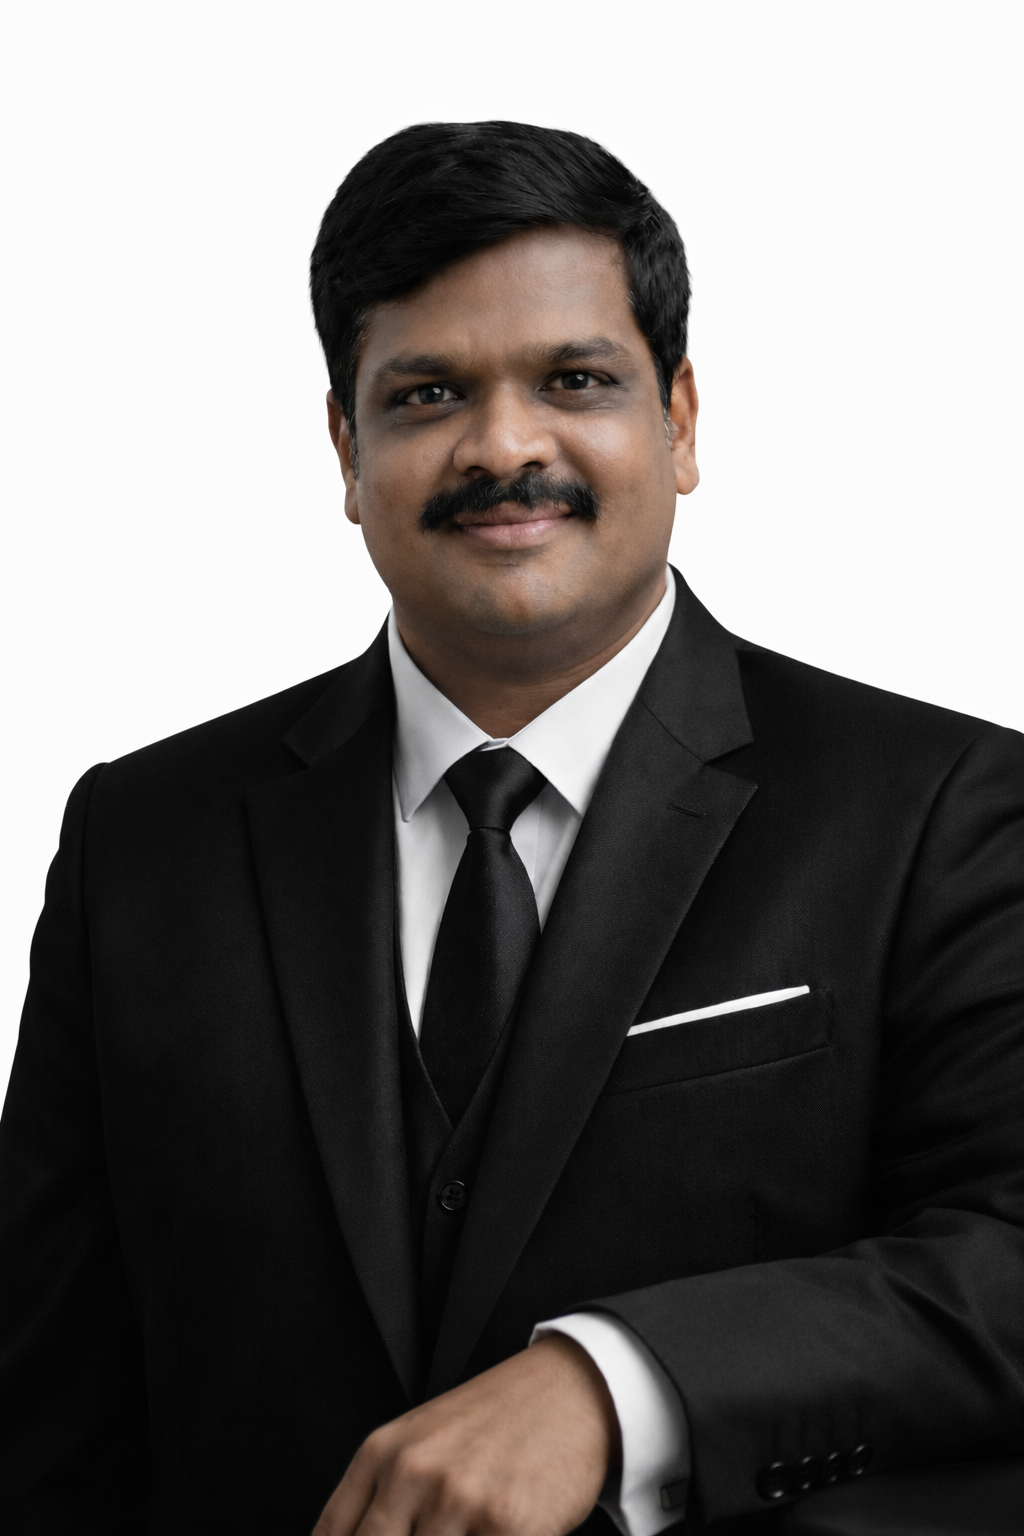
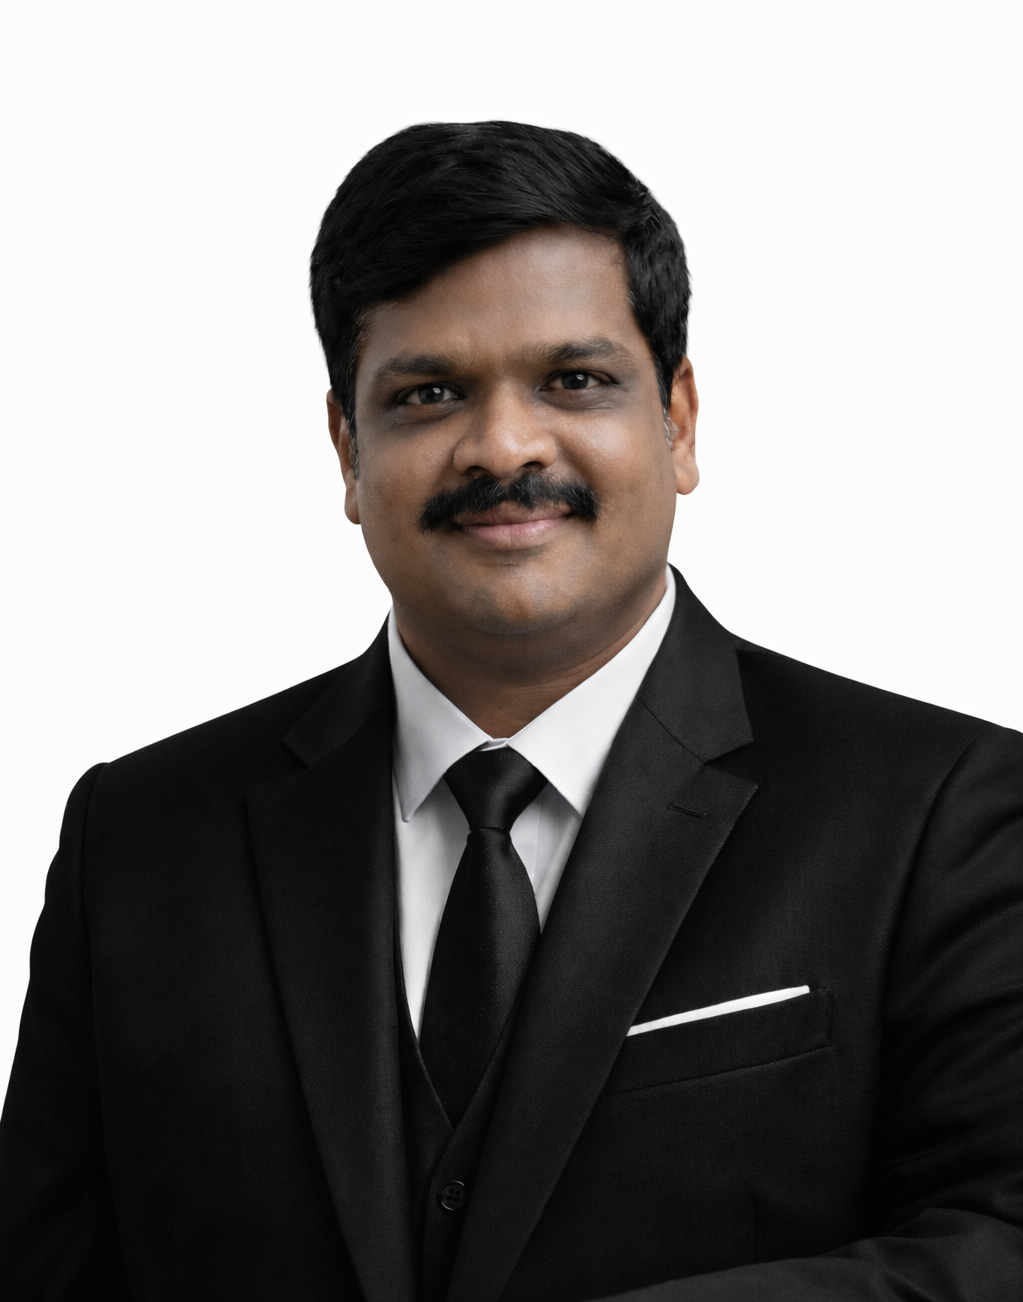
updated members page

diff --git a/apps/client/src/components/MembersPage.tsx b/apps/client/src/components/MembersPage.tsx
@@ -355,13 +355,7 @@ export function MembersPage ({
                         <Mail className="h-4 w-4 flex-shrink-0 mt-0.5 text-[#1E293B]" />
                         <span>{member.email}</span>
                       </div>
-                    )}
-                    
-                    {/* View Profile Link */}
-                    /*<div className="w-full flex items-center justify-center gap-2 text-[#1E293B] hover:text-[#C9A870] font-medium text-sm mt-4 pt-4 border-t border-gray-100 transition-colors">
-                      <span>View Full Profile</span>
-                      <ArrowRight className="h-4 w-4" />
-                    </div>*/
+                    )}                    
                   </CardContent>
                 </Card>
               </motion.div>